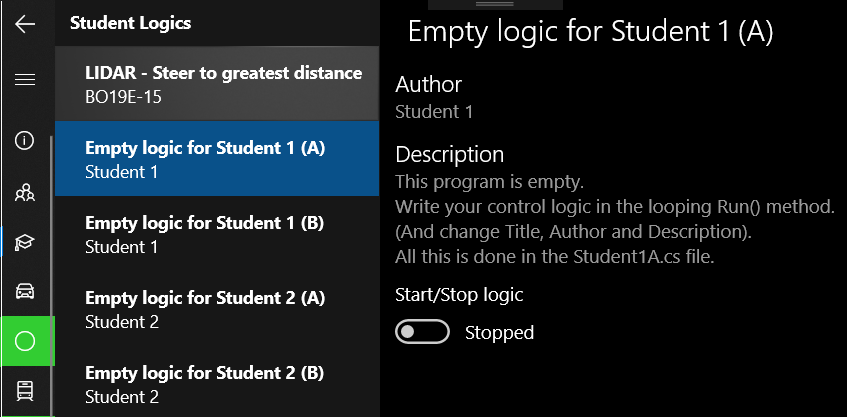
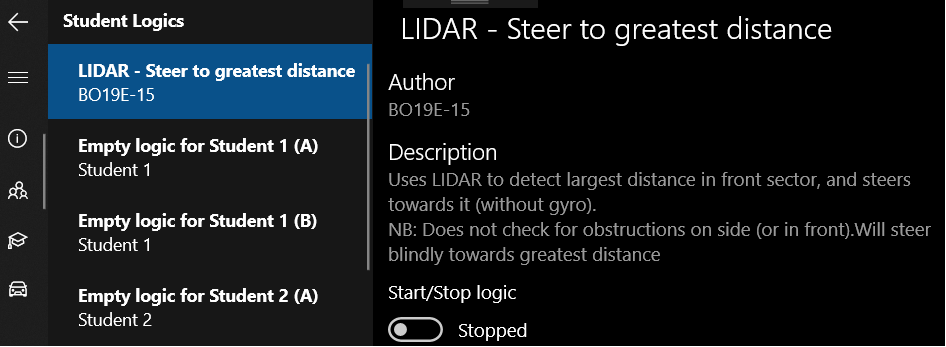
Adds prototype2 and studentlogicpage

Changed region(s): [[0.0, 0.0, 1.0, 1.0], [0.5525, 0.0, 0.6753, 0.0288], [0.0, 0.0288, 0.0307, 0.0865]]

diff --git a/README.md b/README.md
@@ -14,8 +14,8 @@
 * [Acknowledgements](#acknowledgements)
 
 ## About The Project
-This project was the bachelor thesis of Bjørnar Alvestad, Benjamin Odland Skare and Erlend Lone at Western Norway University of Applied Science.
-Our goal was to make a learining tool for engineering students at Western Norway University of Applied Science. The physical car we made has ultrasonic sensors and a LiDAR for measuring distance to obstacles and it has encoders that is used to determine the speed of the car and the distance travelled. HVL SensorVehicle Simulator was made so that the students could test their control logics without having the physical car present.
+This project was the bachelor thesis of Bjørnar Alvestad, Benjamin Odland Skare and Erlend Lone.
+Our goal was to make a learining tool for automation/electrical engineering students at Western Norway University of Applied Science. The physical car we made has ultrasonic sensors and a LiDAR for measuring distance to obstacles and it has encoders that is used to determine the speed of the car and the distance travelled. HVL SensorVehicle Simulator was made so that the students could test their control logics without having the physical car present.
 
 
 ### Built With
@@ -54,17 +54,18 @@ The above example shows how one can make the car drive towards the largest dista
 
 To write your own control logic, navigate to the files in the picture below.
 The different StudentXX.cs-files contains instruction where to write the control logic.
-<img src="%5BDrawings%20and%20Documents%5D/Pictures/StudentLogicCS.png" width="251" height="197"> <img src="%5BDrawings%20and%20Documents%5D/Pictures/StudentLogicPage.png" width="424" height="294">
+<img src="%5BDrawings%20and%20Documents%5D/Pictures/StudentLogicCS.png" width="251" height="197"> <img src="%5BDrawings%20and%20Documents%5D/Pictures/StudentLogicPage.png" width="473" height="177">
+An overview of the different control logics from the shown .cs-files are shown in the student logic page.
 
 
 
-
-<img src="%5BDrawings%20and%20Documents%5D/Pictures/Prototype1.png" width="200" height="162" title="SensorVehicle1">     <img src="%5BDrawings%20and%20Documents%5D/Pictures/Prototype2.png" width="200" height="162" title="SensorVehicle1"> <img src="%5BDrawings%20and%20Documents%5D/Pictures/SensorVehicle.png" width="200" height="162" title="SensorVehicle1">
+<img src="%5BDrawings%20and%20Documents%5D/Pictures/Prototype1.png" width="200" height="162" title="SensorVehicle1">    <img src="%5BDrawings%20and%20Documents%5D/Pictures/Prototype2.png" width="200" height="162" title="SensorVehicle1">    <img src="%5BDrawings%20and%20Documents%5D/Pictures/SensorVehicle.png" width="200" height="162" title="SensorVehicle1">
 The different version of the car that was made are shown in the pictures above.
 The first version was made to get the different hardware components to work.
 The second version was made fully functional. The complete software was made by using this version of the sensor vehicle.
 The third and final version was made even more solid than the second version. The brackets were 3D-printed and the sheet were cut with laser cutter.
 
+**********REMOVE THIS**********************
 Use this space to show useful examples of how a project can be used. Additional screenshots, code examples and demos work well in this space. You may also link to more resources.
 
 _For more examples, please refer to the [Documentation](https://example.com)_
